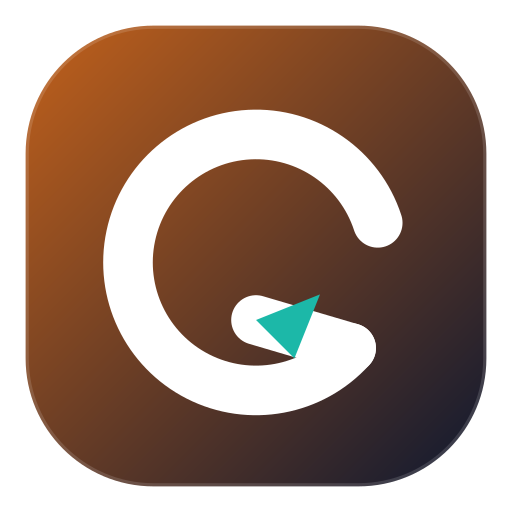
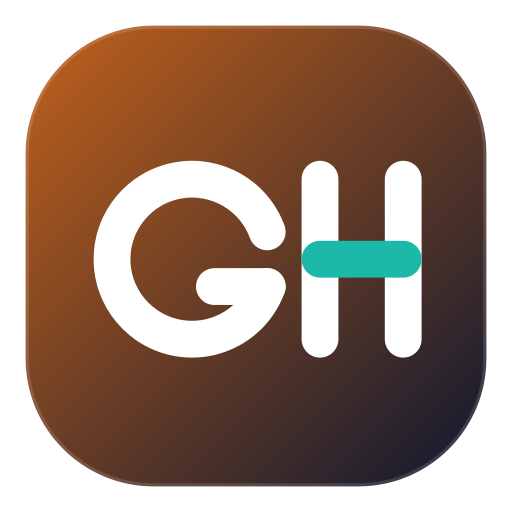
Add files via upload

Changed region(s): [[0.2188, 0.1875, 0.8438, 0.8125], [0.1562, 0.4062, 0.2188, 0.625]]

diff --git a/index.html b/index.html
@@ -3,7 +3,7 @@
 <head>
   <meta charset="UTF-8">
   <meta name="viewport" content="width=device-width, initial-scale=1.0, viewport-fit=cover">
-  <title>Guzman HVAC</title>
+  <title>GH Manager</title>
   <link rel="preconnect" href="https://fonts.googleapis.com">
   <link rel="preconnect" href="https://fonts.gstatic.com" crossorigin>
   <link rel="stylesheet" href="https://fonts.googleapis.com/css2?family=Zilla+Slab:wght@600;700&family=Inter:wght@400;500;600;700&family=IBM+Plex+Mono:wght@400;500;600&display=swap">
@@ -13,7 +13,7 @@
   <meta name="theme-color" content="#0E1830">
   <meta name="apple-mobile-web-app-capable" content="yes">
   <meta name="apple-mobile-web-app-status-bar-style" content="black-translucent">
-  <meta name="apple-mobile-web-app-title" content="Guzman HVAC">
+  <meta name="apple-mobile-web-app-title" content="GH Manager">
   <link rel="apple-touch-icon" href="apple-touch-icon.png">
   <link rel="icon" href="icon-192.png">
 </head>
@@ -757,18 +757,17 @@
             <stop offset="1" stop-color="#0E1830"/>
           </linearGradient>
         </defs>
-        <!-- Cuadro redondeado (squircle) con gradiente -->
         <rect x="8" y="8" width="144" height="144" rx="40" fill="url(#gh-logo-grad)"/>
         <rect x="8" y="8" width="144" height="144" rx="40" fill="none" stroke="rgba(255,255,255,0.14)" stroke-width="2"/>
-        <!-- Letra G: anillo grueso con apertura + barra transversal (motivo: aspa de ventilador) -->
-        <path d="M 109.73 108.77 A 40 40 0 1 1 118.04 69.64" fill="none" stroke="#fff" stroke-width="15.5" stroke-linecap="round"/>
-        <path d="M 109.73 108.77 L 80 100" fill="none" stroke="#fff" stroke-width="15.5" stroke-linecap="round"/>
-        <!-- Acento: pequeña aspa/chispa -->
-        <path d="M 80 100 L 100 92 L 92 112 Z" fill="#1CB8A8"/>
+        <path d="M 83.5 89.55 A 25 25 0 1 1 83.5 72.45" fill="none" stroke="#fff" stroke-width="11.5" stroke-linecap="round"/>
+        <path d="M 83.5 89.55 L 67 89.55" fill="none" stroke="#fff" stroke-width="11.5" stroke-linecap="round"/>
+        <path d="M 100 56 L 100 106" fill="none" stroke="#fff" stroke-width="11.5" stroke-linecap="round"/>
+        <path d="M 126 56 L 126 106" fill="none" stroke="#fff" stroke-width="11.5" stroke-linecap="round"/>
+        <path d="M 100 81 L 126 81" fill="none" stroke="#1CB8A8" stroke-width="11.5" stroke-linecap="round"/>
       </svg>
       <img id="gc-logo-custom" alt="Logo" style="display:none;width:46px;height:46px;border-radius:12px;object-fit:cover;flex-shrink:0;">
       <div class="gc-brand-text">
-        <span class="gc-company">Guzman HVAC</span>
+        <span class="gc-company">GH Manager</span>
         <span id="app-version-badge" style="font-size:10px;color:rgba(255,255,255,0.55);font-weight:600;letter-spacing:.3px;"></span>
       </div>
     </div>
@@ -1096,7 +1095,7 @@
       <div class="gc-card" style="margin-top:16px;">
         <p class="gc-card-title" data-i18n="acerca_de">Acerca de</p>
         <p style="font-size:13px;color:var(--muted);line-height:1.7;">
-          <strong>Guzman HVAC</strong> — Sistema de cuentas, facturas y nómina.<br>
+          <strong>GH Manager</strong> — Sistema de cuentas, facturas y nómina.<br>
           Tus datos se sincronizan en la nube y están disponibles en todos tus dispositivos con tu usuario. Aun así, puedes descargar un respaldo cuando quieras.
           <br><span style="font-size:11px;color:var(--muted);">Versión <span id="app-version-acerca"></span></span>
         </p>
@@ -1123,8 +1122,8 @@
           <input type="text" id="aj-direccion-empresa" placeholder="Calle, ciudad, estado, ZIP" autocomplete="off">
         </div>
         <div style="margin-top:20px;padding-top:18px;border-top:1px solid var(--border-soft);">
-          <label style="font-size:10.5px;font-weight:700;text-transform:uppercase;letter-spacing:.6px;color:var(--muted);display:block;margin-bottom:8px;">Logo de la empresa (opcional)</label>
-          <p style="font-size:12.5px;color:var(--muted);margin-bottom:12px;">Reemplaza el logo del encabezado por el tuyo. Vale para toda la app.</p>
+          <label style="font-size:10.5px;font-weight:700;text-transform:uppercase;letter-spacing:.6px;color:var(--muted);display:block;margin-bottom:8px;">Logo para las facturas</label>
+          <p style="font-size:12.5px;color:var(--muted);margin-bottom:12px;">Este logo sale en las facturas y recibos que ve el cliente. Es <strong>aparte</strong> del logo de la app (GH Manager), que no cambia. Si no subes ninguno, la factura sale solo con el nombre.</p>
           <div style="display:flex;align-items:center;gap:14px;flex-wrap:wrap;">
             <img id="aj-logo-preview" alt="" style="display:none;width:46px;height:46px;border-radius:12px;object-fit:cover;border:1px solid var(--border);">
             <input type="file" id="aj-logo-input" accept="image/*" style="max-width:220px;">
@@ -1862,7 +1861,7 @@
     barra.id = 'aviso-update';
     barra.style.cssText = 'position:fixed;left:50%;bottom:20px;transform:translateX(-50%);z-index:99999;background:#0E1830;color:#fff;padding:12px 18px;border-radius:12px;box-shadow:0 8px 30px rgba(0,0,0,.35);display:flex;align-items:center;gap:14px;font-family:Inter,sans-serif;font-size:13.5px;max-width:92%;';
     const span = document.createElement('span');
-    span.textContent = 'Hay una versión nueva de Guzman HVAC' + (versionNueva ? ` (${versionNueva})` : '');
+    span.textContent = 'Hay una versión nueva de GH Manager' + (versionNueva ? ` (${versionNueva})` : '');
     barra.appendChild(span);
     const btn = document.createElement('button');
     btn.textContent = 'Actualizar';
@@ -1980,7 +1979,7 @@
   const $ = (id) => document.getElementById(id);
   const fmt = (n) => '$' + (Number(n) || 0).toLocaleString('es-MX', { minimumFractionDigits: 2, maximumFractionDigits: 2 });
   // Versión visible de la app — súbela cada vez que haya cambios para confirmar que cargó la nueva
-  const APP_VERSION = 'v65 · 17 sep';
+  const APP_VERSION = 'v66 · 17 sep';
   (function mostrarVersion() {
     const b = document.getElementById('app-version-badge');
     if (b) b.textContent = APP_VERSION;
@@ -2263,11 +2262,13 @@
   }
   // Muestra el logo personalizado en el encabezado si hay uno; si no, el de Guzman HVAC.
   function aplicarLogo() {
+    // El encabezado SIEMPRE lleva el logo de la app (GH Manager). El logo
+    // que se sube en Ajustes es solo para las facturas y recibos, porque
+    // esos los ve el cliente — son dos logos distintos a propósito.
     const badge = document.querySelector('.gc-logo-badge');
     const img = document.getElementById('gc-logo-custom');
-    if (!badge || !img) return;
-    if (cfgLogoDataUrl) { badge.style.display = 'none'; img.style.display = ''; img.src = cfgLogoDataUrl; }
-    else { badge.style.display = ''; img.style.display = 'none'; img.src = ''; }
+    if (badge) badge.style.display = '';
+    if (img) { img.style.display = 'none'; img.src = ''; }
   }
   // Actualiza los textos fijos del HTML que muestran los nombres de los socios
   function aplicarNombresEstaticos() {
@@ -3894,7 +3895,7 @@
     area.innerHTML = `<div class="gc-print-sheet">${cuerpoHTML}</div>`;
     document.title = 'Registro';
     window.print();
-    setTimeout(() => { area.innerHTML = ''; document.title = 'Guzman HVAC'; }, 600);
+    setTimeout(() => { area.innerHTML = ''; document.title = 'GH Manager'; }, 600);
   });
 
   // ---- Respaldo completo (para guardar en OneDrive) ----
@@ -3923,7 +3924,7 @@
     try { recibosData = JSON.parse(rRecibos.value); } catch (e) {}
 
     const respaldo = {
-      app: 'Guzman HVAC',
+      app: 'GH Manager',
       version: 3,
       generadoEn: new Date().toISOString(),
       // Cuentas y reparto
@@ -5114,11 +5115,14 @@
       <svg width="60" height="60" viewBox="0 0 160 160" xmlns="http://www.w3.org/2000/svg">
         <defs><linearGradient id="applock-grad" x1="0" y1="0" x2="1" y2="1"><stop offset="0" stop-color="#C2611B"/><stop offset="1" stop-color="#0E1830"/></linearGradient></defs>
         <rect x="8" y="8" width="144" height="144" rx="40" fill="url(#applock-grad)"/>
-        <path d="M 109.73 108.77 A 40 40 0 1 1 118.04 69.64" fill="none" stroke="#fff" stroke-width="15.5" stroke-linecap="round"/>
-        <path d="M 109.73 108.77 L 80 100" fill="none" stroke="#fff" stroke-width="15.5" stroke-linecap="round"/>
-        <path d="M 80 100 L 100 92 L 92 112 Z" fill="#1CB8A8"/>
+        <rect x="8" y="8" width="144" height="144" rx="40" fill="none" stroke="rgba(255,255,255,0.14)" stroke-width="2"/>
+        <path d="M 83.5 89.55 A 25 25 0 1 1 83.5 72.45" fill="none" stroke="#fff" stroke-width="11.5" stroke-linecap="round"/>
+        <path d="M 83.5 89.55 L 67 89.55" fill="none" stroke="#fff" stroke-width="11.5" stroke-linecap="round"/>
+        <path d="M 100 56 L 100 106" fill="none" stroke="#fff" stroke-width="11.5" stroke-linecap="round"/>
+        <path d="M 126 56 L 126 106" fill="none" stroke="#fff" stroke-width="11.5" stroke-linecap="round"/>
+        <path d="M 100 81 L 126 81" fill="none" stroke="#1CB8A8" stroke-width="11.5" stroke-linecap="round"/>
       </svg>
-      <div style="font-size:16.5px;font-weight:700;">Guzman HVAC bloqueada</div>
+      <div style="font-size:16.5px;font-weight:700;">GH Manager bloqueada</div>
       <div id="gh-applock-msg" style="font-size:12.5px;color:rgba(255,255,255,.72);min-height:18px;max-width:280px;"></div>
       ${credId ? `<button id="gh-applock-btn-faceid" style="background:#0C9184;color:#fff;border:none;padding:14px 28px;border-radius:999px;font-weight:700;font-size:14.5px;cursor:pointer;">Desbloquear con Face ID</button>` : ''}
       <div id="gh-applock-pin-zona" style="${credId ? 'display:none;' : ''}width:100%;max-width:260px;">
@@ -5228,7 +5232,7 @@
         const cred = await navigator.credentials.create({
           publicKey: {
             challenge: crypto.getRandomValues(new Uint8Array(24)),
-            rp: { name: 'Guzman HVAC' },
+            rp: { name: 'GH Manager' },
             user: { id: crypto.getRandomValues(new Uint8Array(16)), name: (window.GH_NOMBRE || 'usuario'), displayName: (window.GH_NOMBRE || 'Usuario') },
             pubKeyCredParams: [{ type: 'public-key', alg: -7 }, { type: 'public-key', alg: -257 }],
             authenticatorSelection: { authenticatorAttachment: 'platform', userVerification: 'required' },
@@ -5302,12 +5306,12 @@
   }
   if ($('aj-logo-quitar')) {
     $('aj-logo-quitar').addEventListener('click', async () => {
-      if (!await gcConfirm('¿Quitar el logo personalizado y volver al de Guzman HVAC?', { okText: 'Quitar' })) return;
+      if (!await gcConfirm('¿Quitar el logo de la factura?', { okText: 'Quitar' })) return;
       cfgLogoDataUrl = '';
       await guardarConfig();
       aplicarLogo();
       ajRefrescarPreviewLogo();
-      toast('Logo de Guzman HVAC restaurado', 'info');
+      toast('Logo de GH Manager restaurado', 'info');
     });
   }
 
@@ -6619,13 +6623,12 @@
       <td style="padding:9px 8px;border-bottom:1px solid #E6EAF2;">${escapeHtml(it.work||'')}</td>
       <td style="padding:9px 8px;border-bottom:1px solid #E6EAF2;text-align:right;font-weight:700;">${invFmt(it.amount)}</td>
     </tr>`).join('');
-    const logoSvg = `<svg width="42" height="42" viewBox="0 0 160 160" xmlns="http://www.w3.org/2000/svg" style="flex-shrink:0;">
-      <defs><linearGradient id="pdf-logo-grad-inv" x1="0" y1="0" x2="1" y2="1"><stop offset="0" stop-color="#C2611B"/><stop offset="1" stop-color="#0E1830"/></linearGradient></defs>
-      <rect x="8" y="8" width="144" height="144" rx="40" fill="url(#pdf-logo-grad-inv)"/>
-      <path d="M 109.73 108.77 A 40 40 0 1 1 118.04 69.64" fill="none" stroke="#fff" stroke-width="15.5" stroke-linecap="round"/>
-      <path d="M 109.73 108.77 L 80 100" fill="none" stroke="#fff" stroke-width="15.5" stroke-linecap="round"/>
-      <path d="M 80 100 L 100 92 L 92 112 Z" fill="#1CB8A8"/>
-    </svg>`;
+    // El logo de la FACTURA es el que se sube en Ajustes → Name of Company.
+    // Es aparte del logo de la app (GH Manager): la factura la ve el cliente,
+    // así que ahí va el logo del negocio, no el de la app.
+    const logoSvg = cfgLogoDataUrl
+      ? `<img src="${cfgLogoDataUrl}" alt="" style="width:52px;height:52px;object-fit:contain;flex-shrink:0;">`
+      : '';
     return `
       <div style="display:flex;justify-content:space-between;align-items:flex-start;margin-bottom:14px;">
         <div style="display:flex;align-items:center;gap:13px;">

diff --git a/service-worker.js b/service-worker.js
@@ -1,9 +1,9 @@
-// Service worker de Guzman HVAC — guarda una copia local de la app
+// Service worker de GH Manager — guarda una copia local de la app
 // para que abra rápido y funcione aunque no haya internet.
 // Los datos NO se guardan aquí (eso vive en localStorage / futuro backend),
 // solo el "cascarón" de la app (HTML, íconos).
 
-const CACHE_NAME = 'guzman-hvac-v65';
+const CACHE_NAME = 'gh-manager-v66';
 const ARCHIVOS_CACHE = [
   './',
   './index.html',
@@ -41,7 +41,7 @@ self.addEventListener('activate', (evento) => {
 
 // Estrategia: copia guardada primero (la app abre AL INSTANTE, incluso con
 // señal débil), y en segundo plano busca una versión nueva para la próxima
-// vez — el aviso "Hay una versión nueva de Guzman HVAC" ya le dice al usuario
+// vez — el aviso "Hay una versión nueva de GH Manager" ya le dice al usuario
 // cuándo actualizar (y a qué versión), así que no hace falta esperar la red
 // en cada apertura.
 // Solo aplica al "cascarón" de la app (mismo origen: HTML, JS, íconos).
